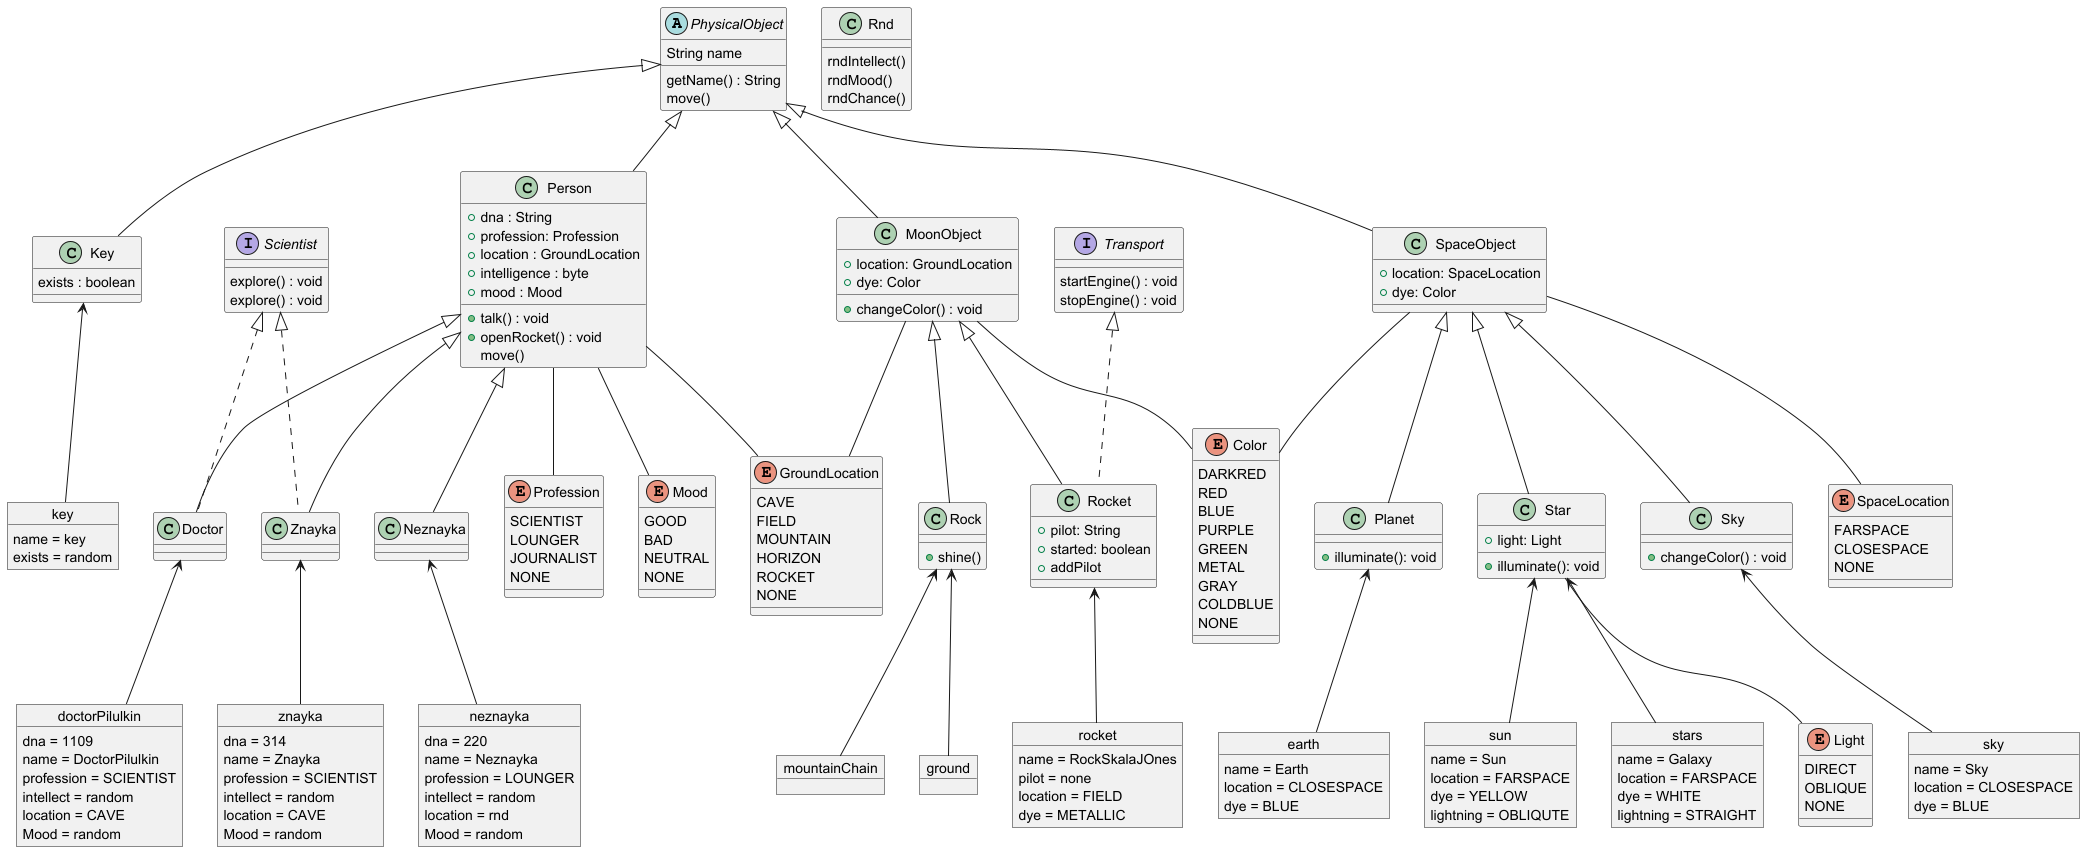
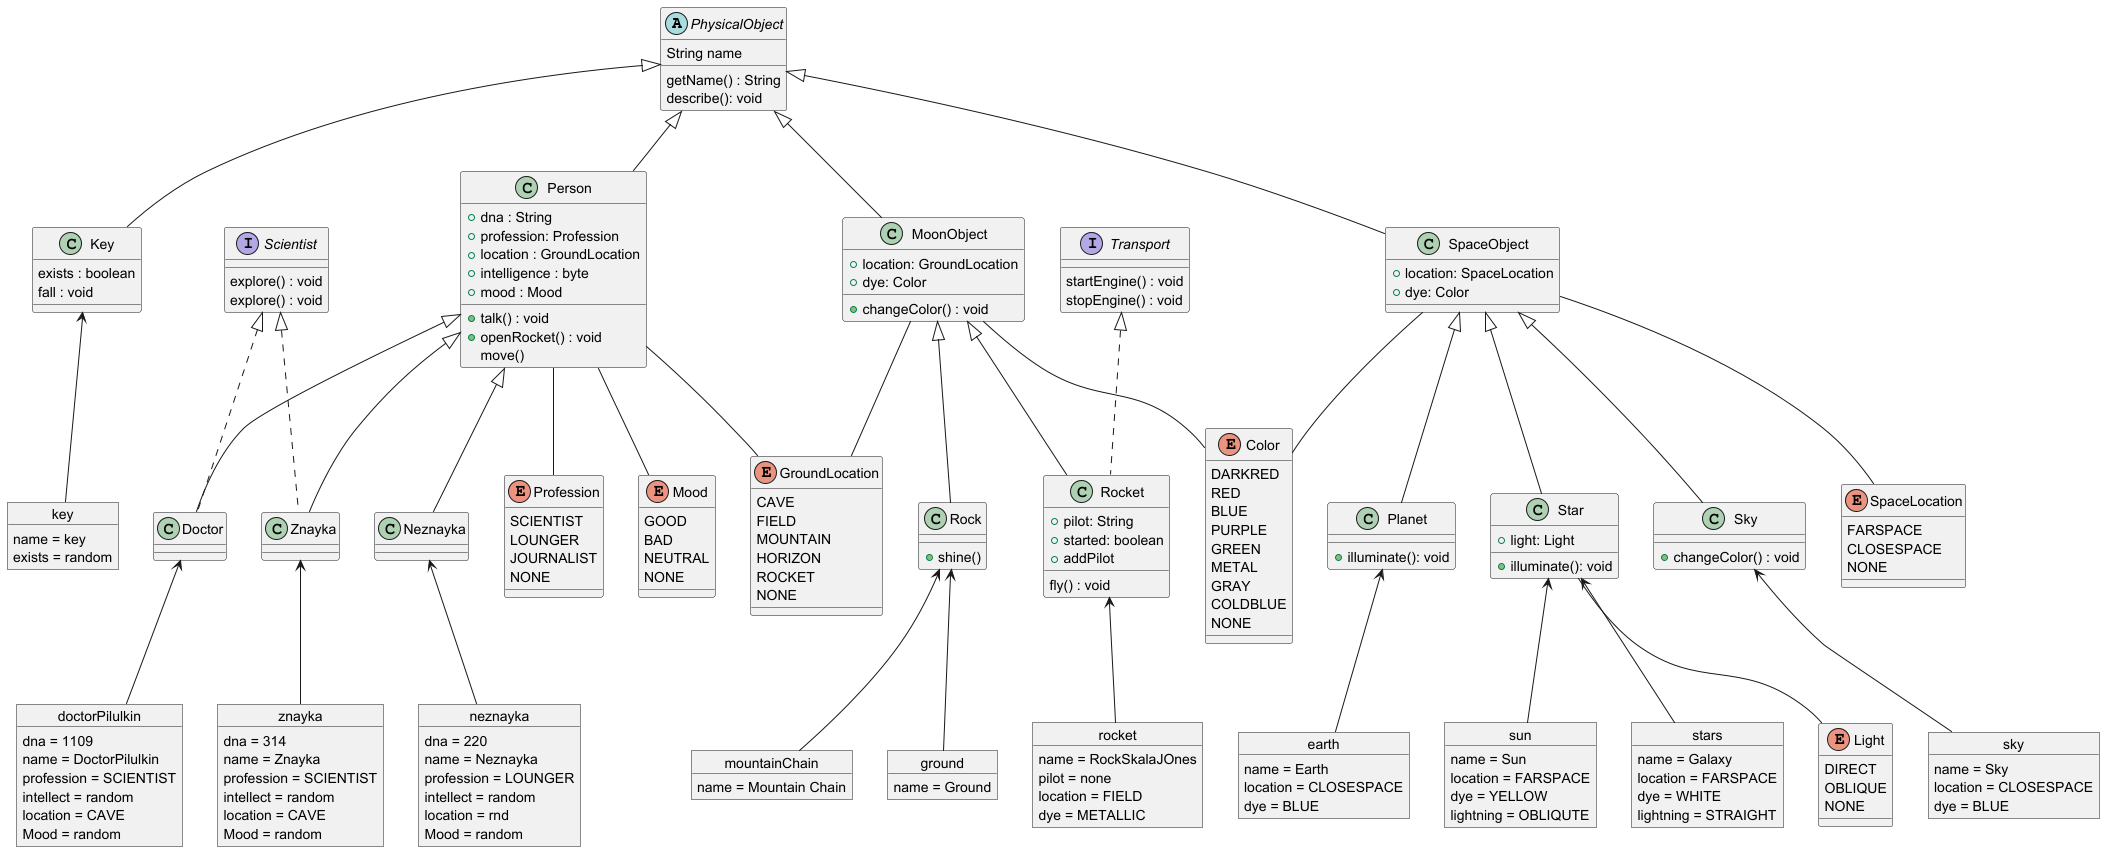
Еще раз исправил uml

diff --git a/src/prod/udntk/objects/inanimates/Key.java b/src/prod/udntk/objects/inanimates/Key.java
@@ -13,20 +13,6 @@ public class Key extends PhysicalObject {
 
     private boolean exists;
 
-    public void fall(){
-        if (exists) {
-        System.out.println("Ключ пропал");
-        this.setExists(false);
-        } else {
-            throw new NoKeyException("ключа как нет так и не было");
-        }
-    }
-
-    @Override
-    public void describe(){
-        System.out.println("Ключ с эмблеммой рос. космоса");
-    }
-
     public void fall(GroundLocation location) throws NoKeyException{
         if (exists) {
             System.out.printf(this.getName() + "Провалился в %s\n", location.getType());
@@ -34,6 +20,11 @@ public class Key extends PhysicalObject {
         } else {
             throw new NoKeyException("Ключ уже потерян");
         }
+    }
+
+    @Override
+    public void describe(){
+        System.out.println("Ключ с эмблеммой рос. космоса");
     }
 
     public boolean isExists() {
